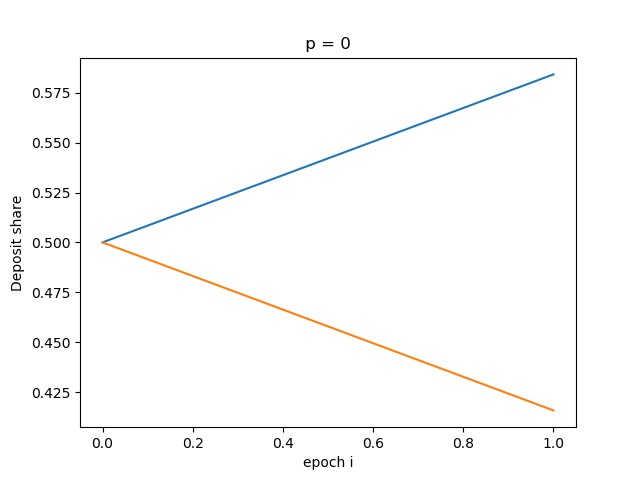
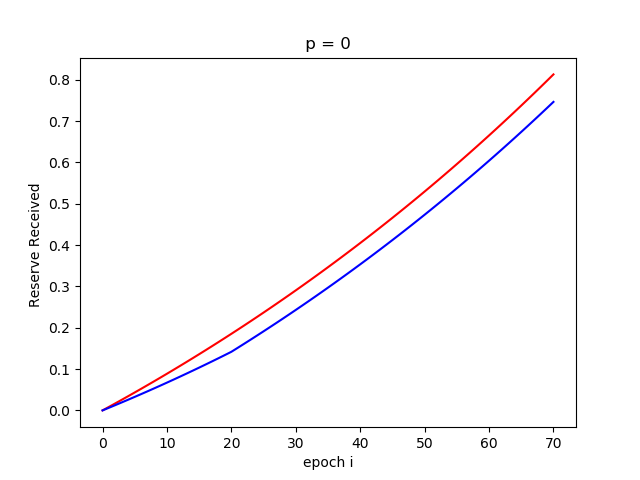
코드 수정, 및 Fig 그리는 코드 추가

diff --git a/experiment.py b/experiment.py
@@ -1,13 +1,12 @@
-import matplotlib.pyplot as plt
 import numpy as np
+import matplotlib.pyplot as plt
 
 from Casper import Casper
 
 
-#3a 와 3b 의 차이는 p=0, p=1
-#각각의 figure 안에는 공격없을 때 시나리오와 공격있을때 시나리오(Casper 클래스)가 들어있다
-
-#의문점은 공격없을때 시나리오에도 공격받는 validator 와 공격받지 않는 validator 로 나뉘어있는데 이게 뭐하는건지 모르겠다.
+# 3a 와 3b 의 차이는 p=0, p=1
+# 각각의 figure 안에는 공격없을 때 시나리오와 공격있을때 시나리오(Casper 클래스)가 들어있다
+# 의문점은 공격없을때 시나리오에도 공격받는 validator 와 공격받지 않는 validator 로 나뉘어있는데 이게 뭐하는건지 모르겠다.
 
 def doExperimentFigure3a():
     tau = 2000
@@ -22,7 +21,6 @@ def doExperimentFigure3a():
     baseInterestFactor = 0.00017  # gamma
     basePenaltyFactor = 0.0000002  # beta
 
-
     # tau = 0 이면 공격이 없는 것 -> 모두가 honest 한 casperHonest
     casperHonest = Casper(totalD, h, baseInterestFactor,
                           basePenaltyFactor, baseDepositDependence, 0)
@@ -31,11 +29,10 @@ def doExperimentFigure3a():
     overtake = -1
     maxEpochs = 7002
 
-    storage_depositscaleF = []
+    deposit_change = []
     for j in range(0, maxEpochs):
 
-        depositscaleF = casperHonest.processEpoch()
-        # storage_depositscaleF.append(depositscaleF)
+        casperHonest.processEpoch()
         casperAttack.processEpoch()
         if (overtake == -1 and (casperHonest.getScaledDeposit(0) < casperAttack.getScaledDeposit(0))):
             overtake = j
@@ -43,20 +40,20 @@ def doExperimentFigure3a():
 
         if (j > traceCounter * traceEpochStep):
             traceCounter += 1
+            honest_deposit_change = casperHonest.getDepositChange(0)
+            attack_deposit_change = casperAttack.getDepositChange(0)
+            deposit_change.append((honest_deposit_change, attack_deposit_change))
 
-            atext = ",".join(map(str, [j, tau, h, casperHonest.getDepositChange(
-                0), casperAttack.getDepositChange(0), casperAttack.getDepositChange(1)]))
+            atext = ",".join(map(str, [j, tau, h,honest_deposit_change ,attack_deposit_change , casperAttack.getDepositChange(1)]))
             print(atext)
             text += "\n" + atext
 
-    casperAttack_deposit = np.array(casperAttack.validatorDeposits)
-    casperHonest_deposit = np.array(casperHonest.validatorDeposits)
 
-    totalD = casperAttack_deposit + casperHonest_deposit
-    plt.plot(casperHonest_deposit / totalD)
-    plt.plot(casperAttack_deposit / totalD)
+    deposit_change = np.array(deposit_change)
+    plt.plot(deposit_change[:,0],color='r')
+    plt.plot(deposit_change[:,1],color='b')
     plt.xlabel("epoch i")
-    plt.ylabel("Deposit share")
+    plt.ylabel("Reserve Received ")
     plt.title(" p = 0 ")
     plt.savefig("Fig3a")
     plt.close()
@@ -84,7 +81,9 @@ def doExperimentFigure3b():
     overtake = -1
     maxEpochs = 7002
 
+    deposit_change = []
     for j in range(0, maxEpochs):
+
         casperHonest.processEpoch()
         casperAttack.processEpoch()
         if (overtake == -1 and (casperHonest.getScaledDeposit(0) < casperAttack.getScaledDeposit(0))):
@@ -93,26 +92,30 @@ def doExperimentFigure3b():
 
         if (j > traceCounter * traceEpochStep):
             traceCounter += 1
-            atext = ",".join(map(str, [j, tau, h, casperHonest.getDepositChange(
-                0), casperAttack.getDepositChange(0), casperAttack.getDepositChange(1)]))
+            honest_deposit_change = casperHonest.getDepositChange(0)
+            attack_deposit_change = casperAttack.getDepositChange(0)
+            deposit_change.append((honest_deposit_change, attack_deposit_change))
+
+            atext = ",".join(
+                map(str, [j, tau, h, honest_deposit_change, attack_deposit_change, casperAttack.getDepositChange(1)]))
             print(atext)
             text += "\n" + atext
 
-    casperAttack_deposit = np.array(casperAttack.validatorDeposits)  # attack 이 있을 때 [honest , attacker ] deposit
-    casperHonest_deposit = np.array(casperHonest.validatorDeposits)
-
-    totalD = casperAttack_deposit + casperHonest_deposit
-    plt.plot(casperHonest_deposit / totalD)
-    plt.plot(casperAttack_deposit / totalD)
+    deposit_change = np.array(deposit_change)
+    plt.plot(deposit_change[:, 0],color='r')
+    plt.plot(deposit_change[:, 1],color='b')
     plt.xlabel("epoch i")
-    plt.ylabel("Deposit share")
+    plt.ylabel("Reserve Received ")
     plt.title(" p = 1 ")
     plt.savefig("Fig3b")
     plt.close()
     # fileContents = document.getElementById('filecontents')
     # fileContents.innerText = text
 
-import numpy as np
+
+
+
+
 def doExperimentFigure4a():
     h = 0.00001
     startH = 0.3
@@ -121,6 +124,8 @@ def doExperimentFigure4a():
     baseMaxEpochs = 100000
 
     text = "h,first_finalization_epoch"
+    h_list = []
+    FinalizationEpoch = []
 
     for h in np.arange(startH, endH, stepH):
 
@@ -138,11 +143,21 @@ def doExperimentFigure4a():
             casper.processEpoch()
             if (casper.lastFinalizedEpoch > -1):
                 break
-
-        atext = str(h) + "," + str(casper.getFinalizationEpoch())
+        final_epoch = casper.getFinalizationEpoch()
+        FinalizationEpoch.append(final_epoch)
+        h_list.append(h)
+        atext = str(h) + "," + str(final_epoch)
         print(atext)
         text += "\n" + atext
-    print(atext)
+
+    h_list = np.array(h_list)
+    plt.plot((1 - h_list)[::-1], np.array(FinalizationEpoch))
+    plt.xlabel("alpha")
+    plt.ylabel("first finalization epoch")
+    plt.title("Benchmark setting")
+    plt.ylim(-1000, 10000)
+    plt.savefig("Fig4a")
+
     # fileContents = document.getElementById('filecontents')
     # fileContents.innerText = text
 
@@ -156,6 +171,8 @@ def doExperimentFigure4b():
 
     text = "h,first_finalization_epoch"
 
+    FinalizationEpoch = []
+    h_list = []
     for h in np.arange(startH, endH, stepH):
         n = 2
         eachValidatorD = 10000000
@@ -170,16 +187,26 @@ def doExperimentFigure4b():
             casper.processEpoch()
             if (casper.lastFinalizedEpoch > -1):
                 break
+        final_epoch = casper.getFinalizationEpoch()
+        FinalizationEpoch.append(final_epoch)
+        h_list.append(h)
 
-        atext = str(h) + "," + str(casper.getFinalizationEpoch())
+        atext = str(h) + "," + str(final_epoch)
         print(atext)
         text += "\n" + atext
 
     # fileContents = document.getElementById('filecontents')
     # fileContents.innerText = text
+    h_list = np.array(h_list)
+    plt.plot((1 - h_list)[::-1], np.array(FinalizationEpoch))
+    plt.xlabel("alpha")
+    plt.ylabel("first finalization epoch")
+    plt.title("added exponential term")
+    plt.ylim(-1000, 10000)
+    plt.savefig("Fig4b")
 
 
-#doExperimentFigure3a()
-# doExperimentFigure3b()
-doExperimentFigure4a()
+doExperimentFigure3a()
+doExperimentFigure3b()
+# doExperimentFigure4a()
 # doExperimentFigure4b()

diff --git a/Casper.py b/Casper.py
@@ -59,10 +59,9 @@ class Casper:
     def getCollectiveReward(self, ):
         # relevant for the first epoch, as we are assuming that we start in something close to steady-state
         if (self.epoch == 1):
-            return self.rewardFactor / 2 #왜 epoch = 1 이면 투표율 고려안하지??
+            return self.rewardFactor / 2  # 왜 epoch = 1 이면 투표율 고려안하지??
 
         votePercentage = self.totalVoteUnscaled / self.getTotalDepositsUnscaled()
-
 
         if (self.getESF() > 2):
             votePercentage = 0
@@ -98,8 +97,7 @@ class Casper:
         self.rewardFactor = self.baseInterestFactor / math.pow(self.getTotalDepositsUnscaled(
         ) * self.prevDepositScaleFactor, self.baseDepositDependence) + self.basePenaltyFactor * (self.getESF() - 2)
         if (self.getESF() >= self.exponentialTerm):
-            self.rewardFactor += (math.exp(self.getESF() -
-                                           self.exponentialTerm) - 1) * self.basePenaltyFactor
+            self.rewardFactor += (math.exp(self.getESF() - self.exponentialTerm) - 1) * self.basePenaltyFactor
 
         # update base deposits
         self.totalVoteUnscaled = 0
@@ -120,7 +118,6 @@ class Casper:
 
                 self.lastJustifiedEpoch = self.epoch
 
-        return self.depositScaleFactor
 
     def getDepositChange(self, idx):
         return (self.getScaledDeposit(idx) / self.INITIAL_SCALE_FACTOR) / self.validatorInitDeposits[idx] - 1
